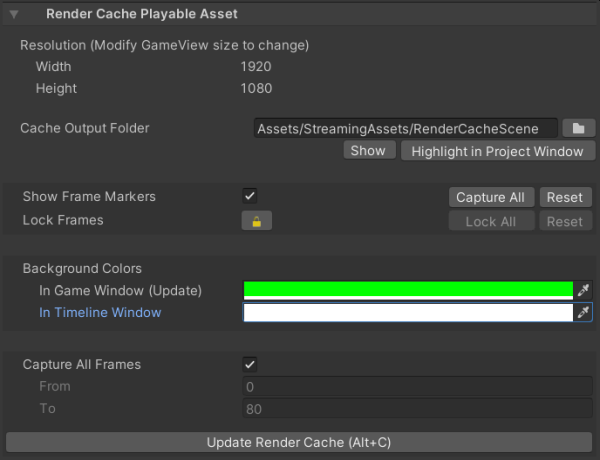
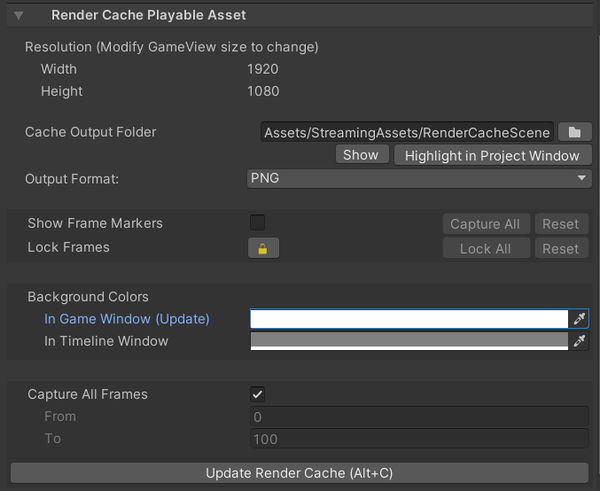
doc: add information about partial exr support (#331)
* Add info in PlayingSequentialImages and CachingRenderResults pages (Japanese, English)
* Update the table of supported image formats in PlayingSequentialImages pages (Japanese, English)
* Update RenderCachePlayableAssetInspector image

diff --git a/Documentation~/en/FeaturePlayingSequentialImages.md b/Documentation~/en/FeaturePlayingSequentialImages.md
@@ -44,10 +44,13 @@ For other ways for importing images, see [ImportingImages](ImportingImages.md).
 
 ## Supported Image Formats
 
-|             | Windows            | Mac                | Linux              |
-| ----------- | ------------------ | ------------------ | ------------------ |
-| png         | :white_check_mark: | :white_check_mark: | :white_check_mark: |       
-| tga         | :white_check_mark: | :white_check_mark: | :white_check_mark: |    
+|             | Windows              | Mac                  | Linux                |
+| ----------- | -------------------- | -------------------- | -------------------- |
+| png         | :heavy_check_mark:   | :heavy_check_mark:   | :heavy_check_mark:   |       
+| tga         | :heavy_check_mark:   | :heavy_check_mark:   | :heavy_check_mark:   |    
+| exr         | :small_red_triangle: | :small_red_triangle: | :small_red_triangle: |    
+
+For exr support, please refer to [Folder Tradeoffs](#folder-tradeoffs).
 
 ## Folder Tradeoffs
 
@@ -62,6 +65,7 @@ Please refer to the following table for more details.
 | CPU to GPU tex upload cost        | Everytime the active tex changed                                                                         | None                                                   | Everytime the active tex changed |    
 | CPU mem. usage of tex in Editor   | Textures are preloaded as much as possible. See [Editor Memory Usage](#editor-memory-usage) for details. | None                                                   | Textures are preloaded as much as possible. See [Editor Memory Usage](#editor-memory-usage) for details. |    
 | CPU mem. usage of tex in Runtime  | Not supported in Runtime                                                                                 | Not supported in Runtime                               | Textures up to a certain number of frames in advance are preloaded |    
+| exr Support                       | No                                                                                                       | Editor only                                            | No |    
 
 ### Editor Memory Usage
 

diff --git a/Documentation~/en/FeatureCachingRenderResults.md b/Documentation~/en/FeatureCachingRenderResults.md
@@ -72,6 +72,8 @@ We can view or modify the following properties through the inspector.
   The resolution of the output images. Modify the size of the Game window to change this property.
 * **Cache Output folder**  
   Where the cached render results are stored.
+* **Output Format**  
+  The format of the output images.
 * **Show Frame Markers**  
   [FrameMarkers](FrameMarkers.md) are used to customize which frames to capture. 
 * **Lock Frames**  
